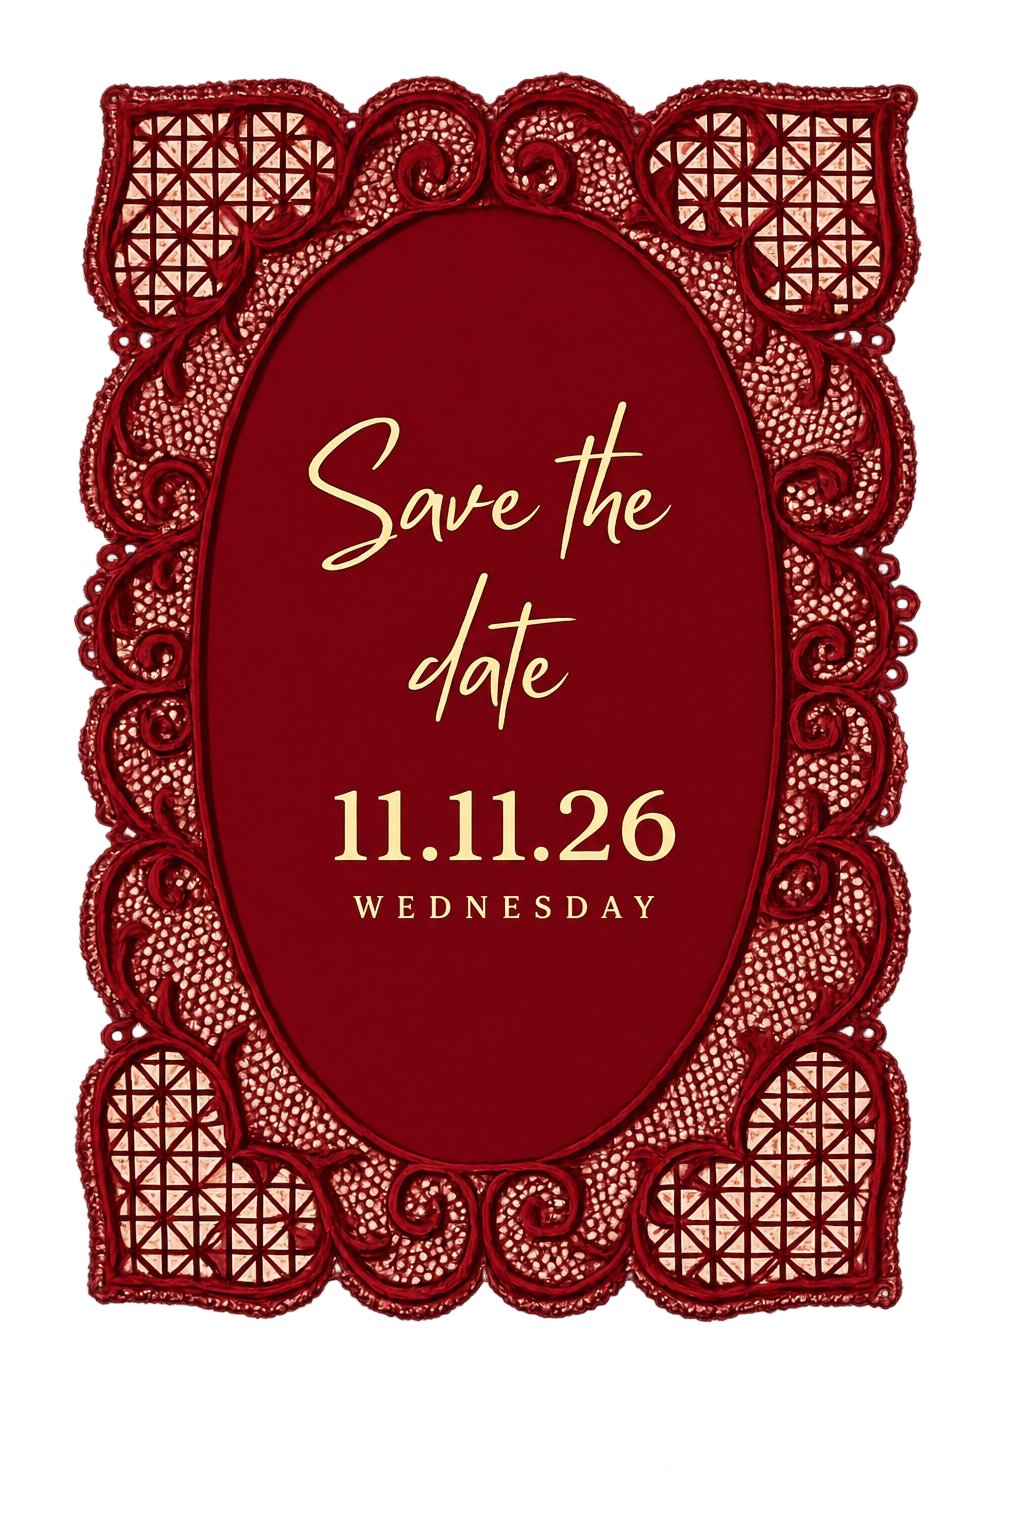
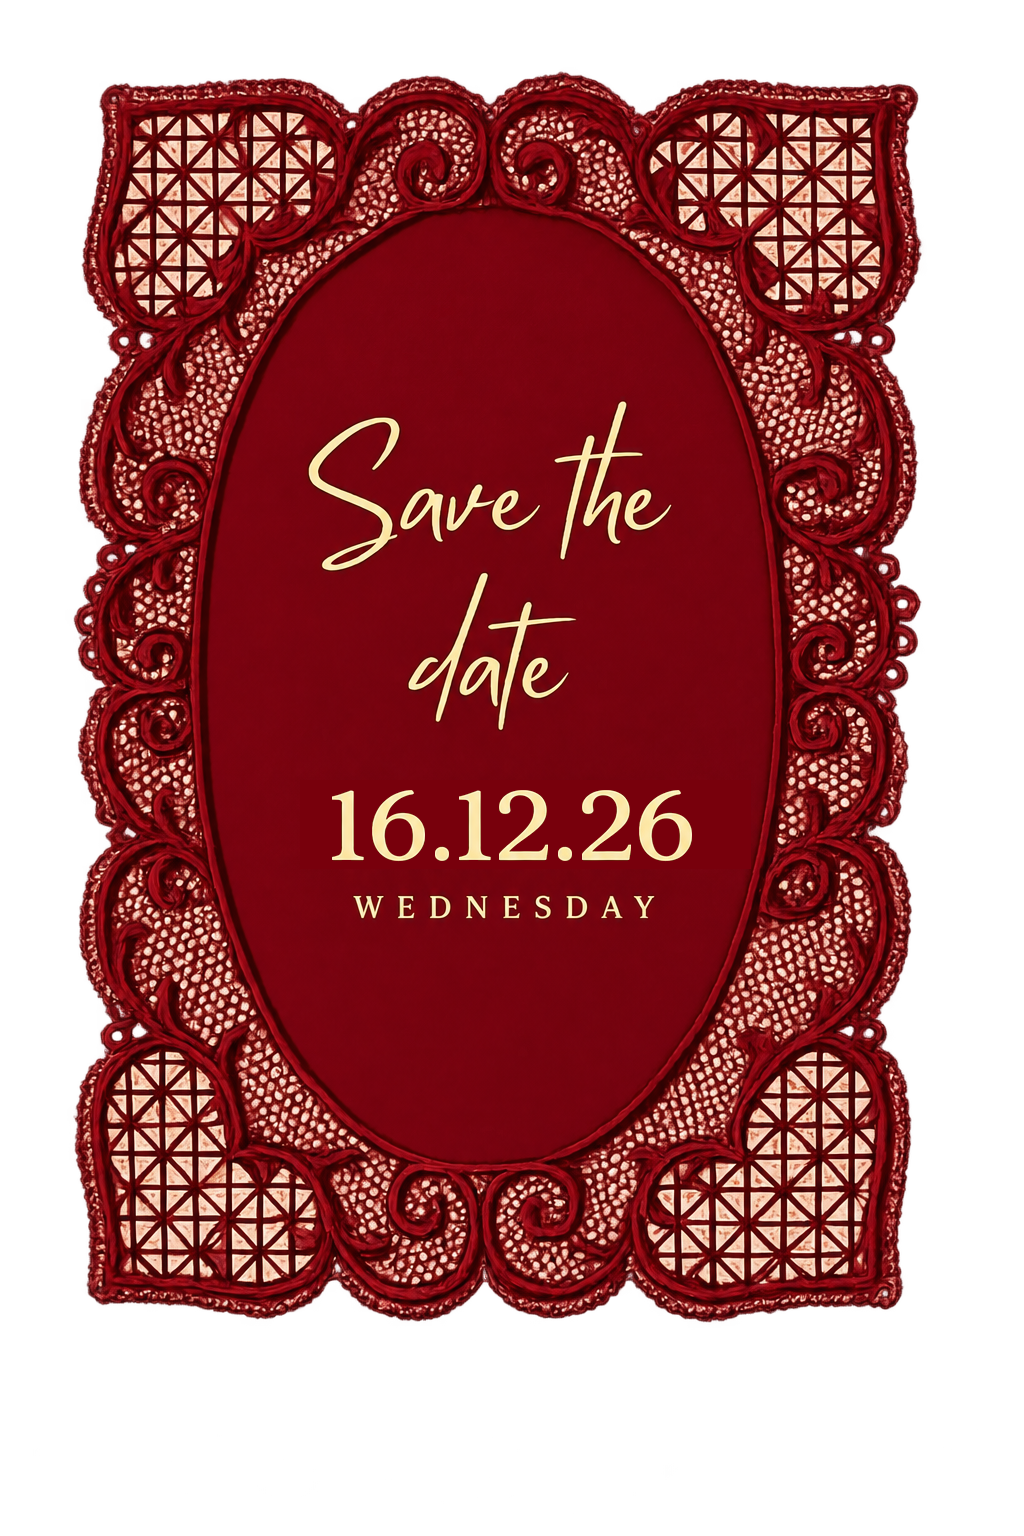
Update Save The Date to 16.12.26 and fix mobile visibility for flowers and wall hanging

Changed region(s): [[0.3125, 0.5, 0.6875, 0.5625]]

diff --git a/style.css b/style.css
@@ -383,30 +383,38 @@ video {
     position: relative;
     width: 100%;
     pointer-events: none;
-    overflow: hidden;
+    overflow: visible;
+    z-index: 10;
 }
 
 .topf-image {
     width: 100%;
     display: block;
     position: relative;
-    z-index: 2;
-    top: -20px;
+    z-index: 3;
+    top: 0;
 }
 
 .light-image {
     position: absolute;
-    top: 25px;
+    top: 15px;
     left: 50%;
     transform: translateX(-50%);
     transform-origin: top center;
-    width: 100%;
+    width: 50%;
     max-width: 210px;
+    min-width: 140px;
     height: auto;
-    z-index: 4;
+    z-index: 12;
     pointer-events: none;
     display: block;
     animation: sway-light 3.2s ease-in-out infinite alternate;
+}
+
+.hero-intro-section {
+    position: relative;
+    z-index: 5;
+    margin-top: 15px;
 }
 
 @keyframes sway-light {

diff --git a/index.html b/index.html
@@ -99,8 +99,8 @@
 
         <!-- Top Floral & Chandelier Embellishments -->
         <div class="header-embellishments">
-            <img src="assests/images/topf.png" class="topf-image" alt="Floral Decoration Top" loading="lazy">
-            <img src="assests/images/light.png" class="light-image" alt="Royal Chandelier Lighting" loading="lazy">
+            <img src="assests/images/topf.png" class="topf-image" alt="Floral Decoration Top" fetchpriority="high">
+            <img src="assests/images/light.png" class="light-image" alt="Royal Chandelier Lighting" fetchpriority="high">
         </div>
 
         <!-- ====================================================================
